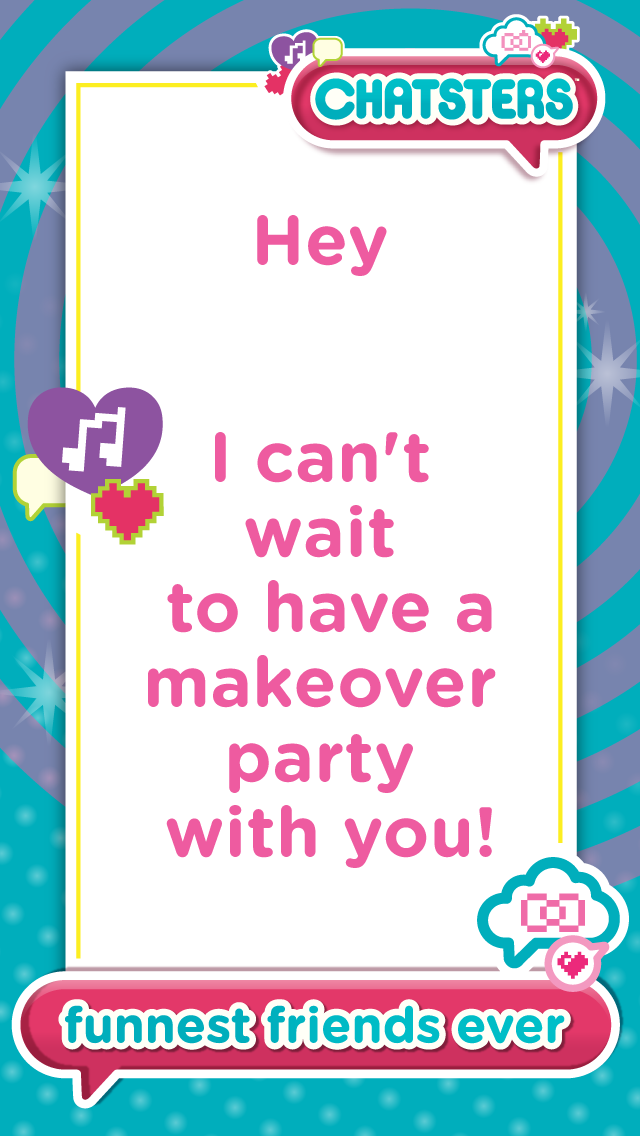
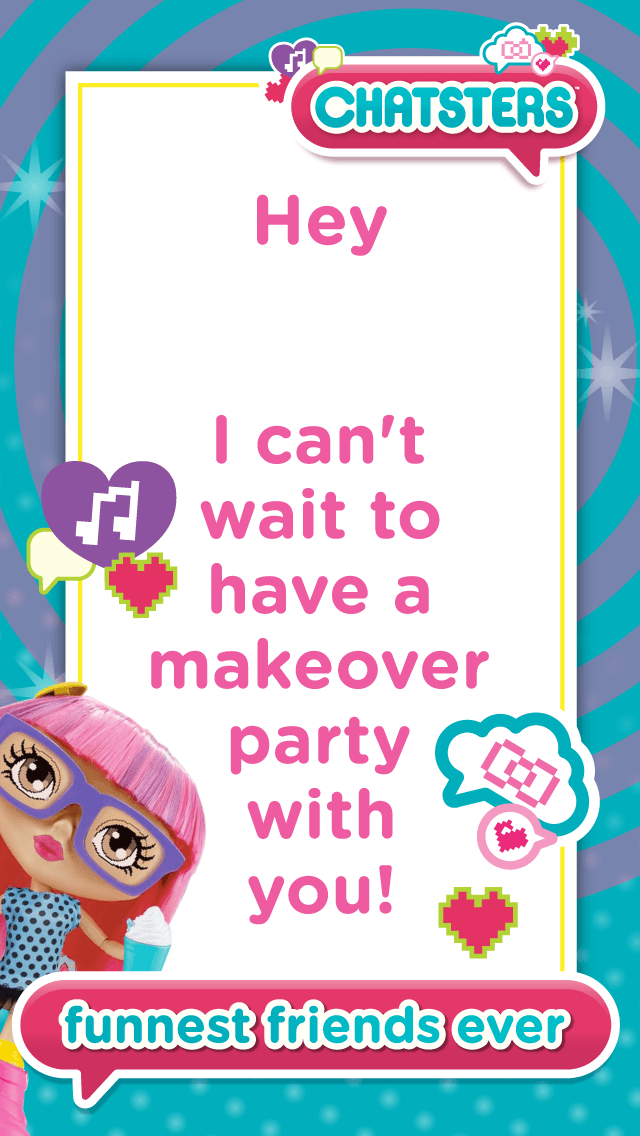
Swap poster and upate views.

Changed region(s): [[0.0, 0.0, 1.0, 1.0], [0.1875, 0.9243, 0.9375, 0.9551], [0.4062, 0.154, 0.625, 0.2465]]

diff --git a/app/views.py b/app/views.py
@@ -53,7 +53,7 @@ def mod_photo(user_text):
     text_w, text_h = d.textsize(user_text, fnt)
 
     d.text(
-        (((base_w-text_w)/2), 305),
+        (((base_w-text_w)/2), 295),
         '{}'.format(user_text),
         font=fnt,
         fill=(143, 83, 157, 255)
@@ -63,9 +63,10 @@ def mod_photo(user_text):
 
     image_time_stamp = datetime.datetime.now()
 
-    image.save(static_path + 'static/images/changed/chatsters_poster_{}_{}.png'.format(
-        user_text,
-        image_time_stamp.strftime('%y_%m_%d_%I%M%S')
+    image.save(
+        static_path + 'static/images/changed/chatsters_poster_{}_{}.png'.format(
+            user_text,
+            image_time_stamp.strftime('%y_%m_%d_%I%M%S')
         )
     )
 
